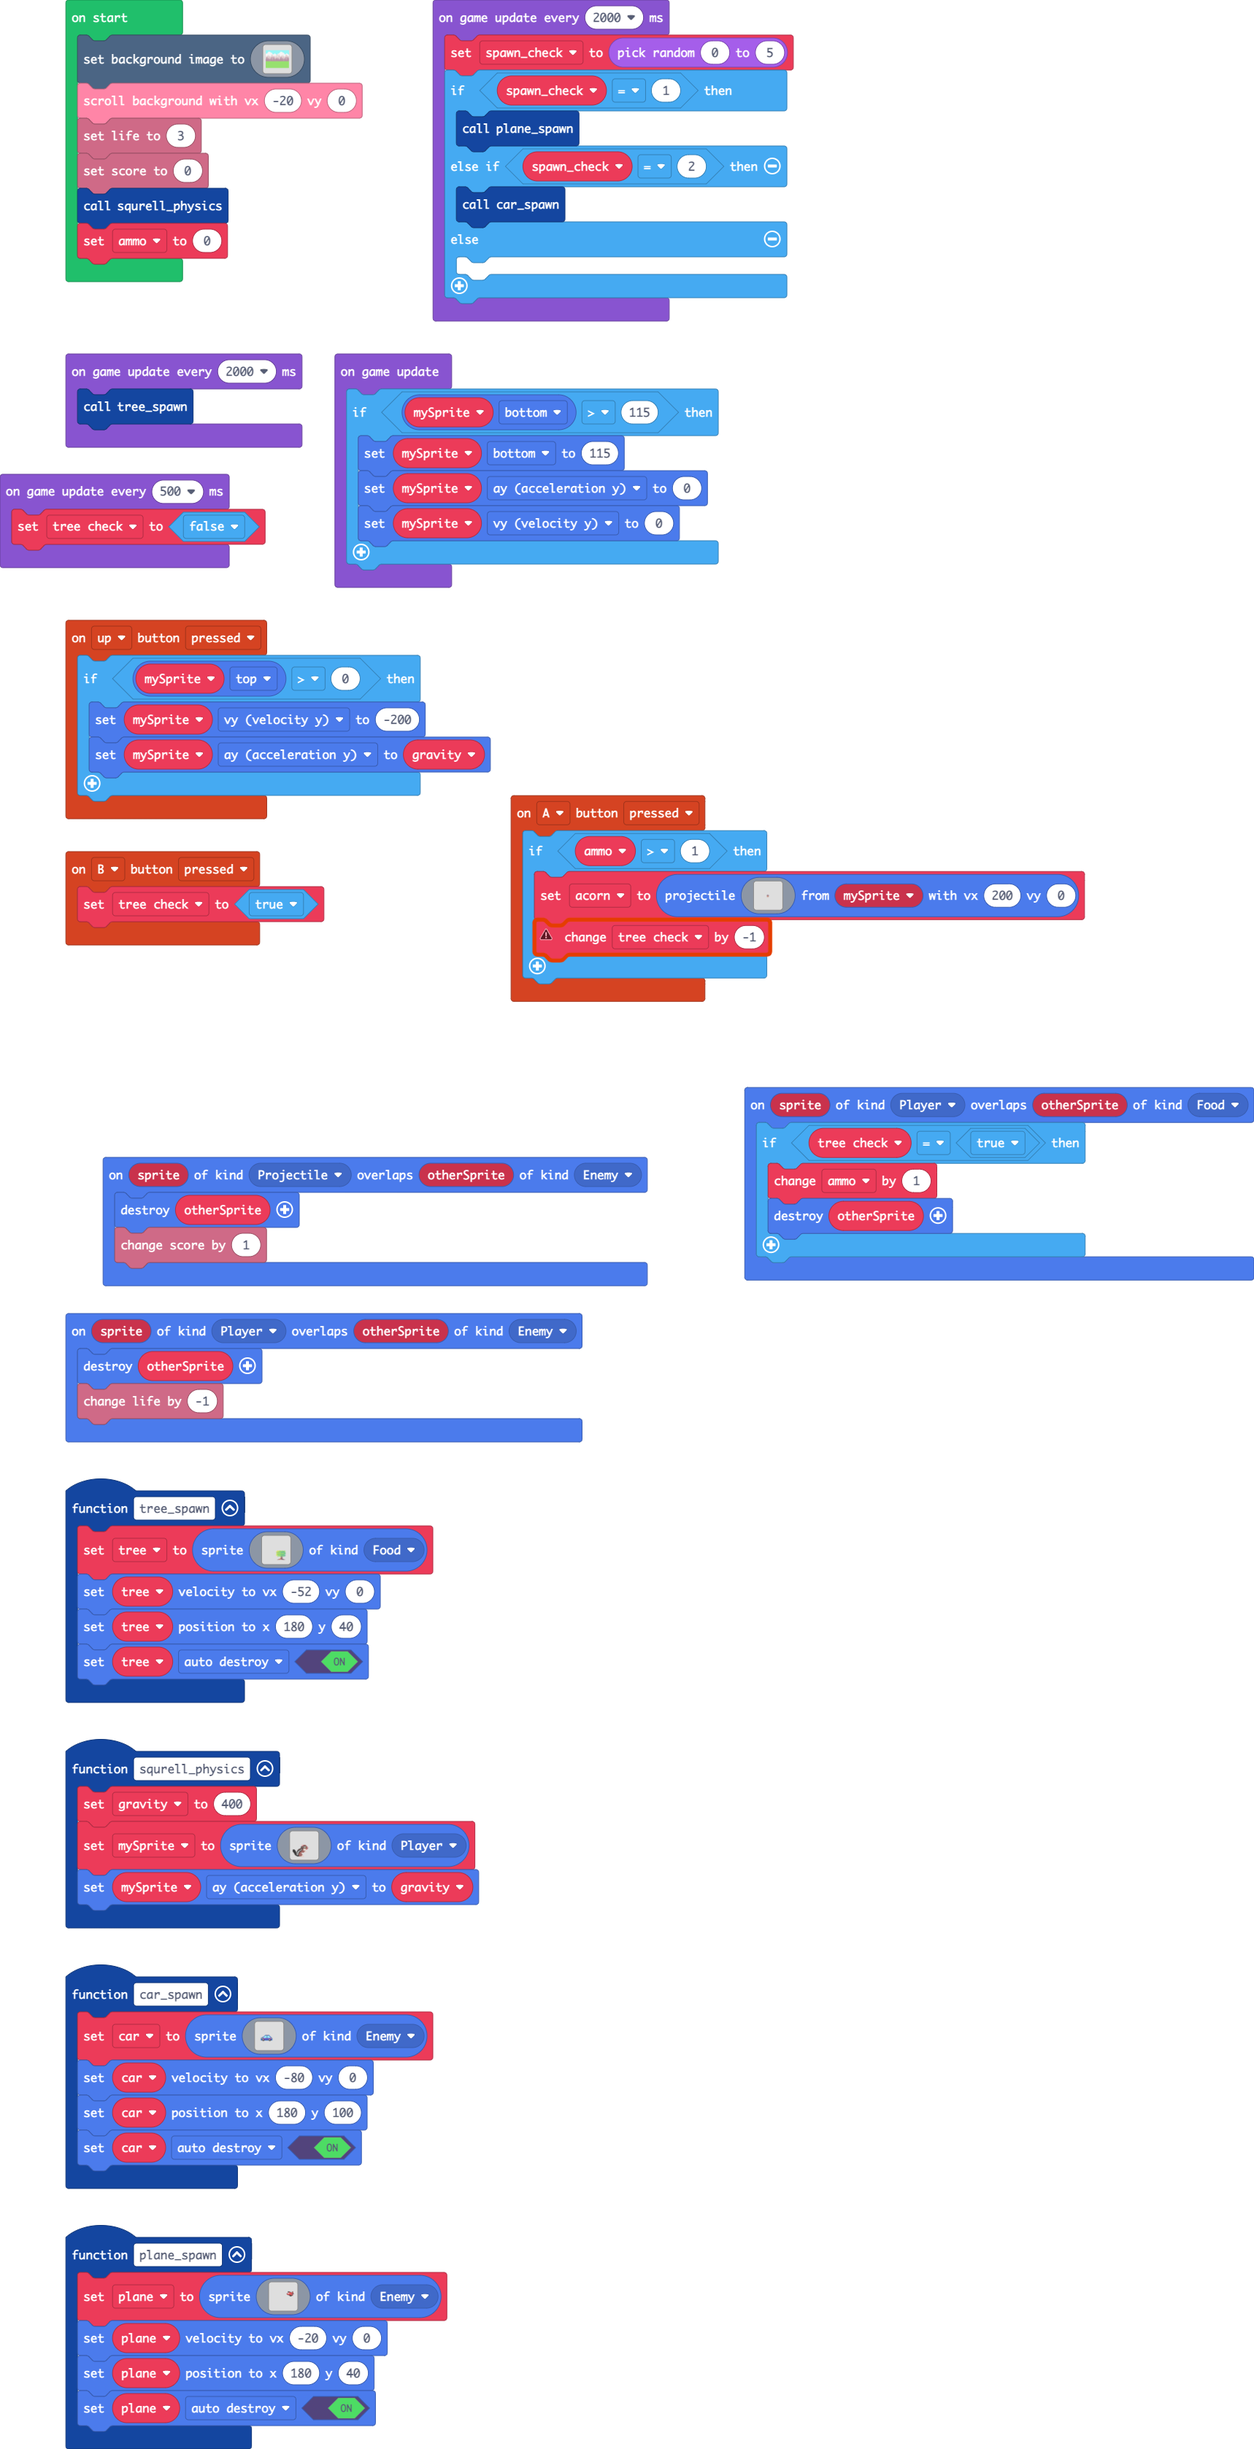
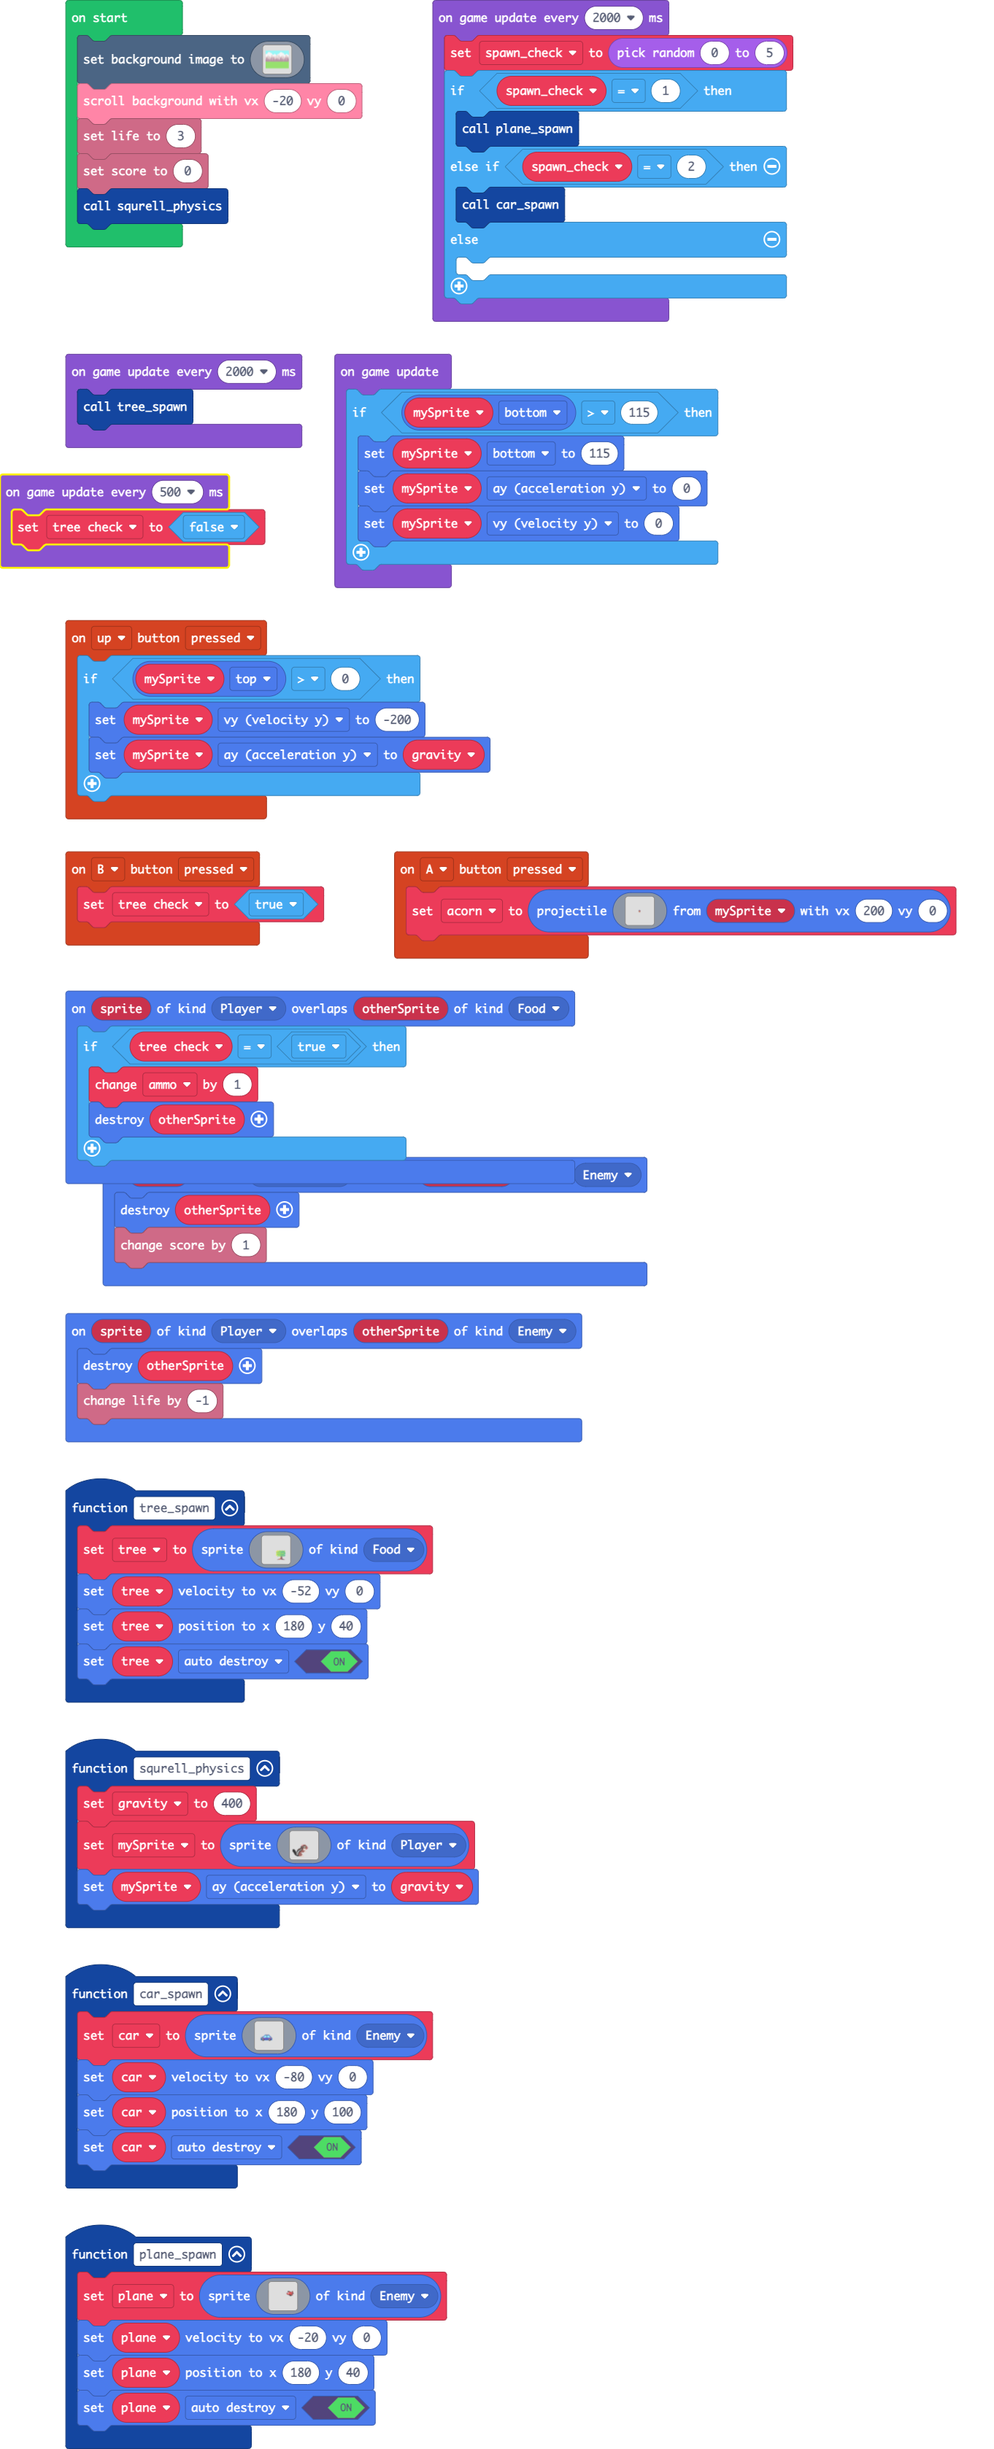
Restore '27.10.2021 13.16.42 Update main.blocks'

Changed region(s): [[0.0, 0.0, 1.0, 1.0]]

diff --git a/main.ts b/main.ts
@@ -100,100 +100,97 @@ function squrell_physics () {
     mySprite.ay = gravity
 }
 controller.A.onEvent(ControllerButtonEvent.Pressed, function () {
-    if (ammo > 1) {
-        acorn = sprites.createProjectileFromSprite(img`
-            ................................................................................
-            ................................................................................
-            ................................................................................
-            ................................................................................
-            ................................................................................
-            ................................................................................
-            ................................................................................
-            ................................................................................
-            ................................................................................
-            ................................................................................
-            ................................................................................
-            ................................................................................
-            ................................................................................
-            ................................................................................
-            ................................................................................
-            ................................................................................
-            ................................................................................
-            ................................................................................
-            ................................................................................
-            ................................................................................
-            ................................................................................
-            ................................................................................
-            ................................................................................
-            ................................................................................
-            ................................................................................
-            ................................................................................
-            ................................................................................
-            ................................................................................
-            ................................................................................
-            ................................................................................
-            ................................................................................
-            ................................................................................
-            ................................................................................
-            ................................................................................
-            ................................................................................
-            ................................................................................
-            ................................................................................
-            ................................................................................
-            ................................................................................
-            ................................................................................
-            ................................................................................
-            .......................................cc.......................................
-            ........................................c.......................................
-            ......................................ccccc.....................................
-            .....................................ceeeeec....................................
-            .....................................ccccccc....................................
-            ......................................e444e.....................................
-            ......................................e444e.....................................
-            ......................................e444e.....................................
-            .......................................eee......................................
-            ................................................................................
-            ................................................................................
-            ................................................................................
-            ................................................................................
-            ................................................................................
-            ................................................................................
-            ................................................................................
-            ................................................................................
-            ................................................................................
-            ................................................................................
-            ................................................................................
-            ................................................................................
-            ................................................................................
-            ................................................................................
-            ................................................................................
-            ................................................................................
-            ................................................................................
-            ................................................................................
-            ................................................................................
-            ................................................................................
-            ................................................................................
-            ................................................................................
-            ................................................................................
-            ................................................................................
-            ................................................................................
-            ................................................................................
-            ................................................................................
-            ................................................................................
-            ................................................................................
-            ................................................................................
-            ................................................................................
-            ................................................................................
-            ................................................................................
-            ................................................................................
-            ................................................................................
-            ................................................................................
-            ................................................................................
-            ................................................................................
-            ................................................................................
-            `, mySprite, 200, 0)
-        tree_check += -1
-    }
+    acorn = sprites.createProjectileFromSprite(img`
+        ................................................................................
+        ................................................................................
+        ................................................................................
+        ................................................................................
+        ................................................................................
+        ................................................................................
+        ................................................................................
+        ................................................................................
+        ................................................................................
+        ................................................................................
+        ................................................................................
+        ................................................................................
+        ................................................................................
+        ................................................................................
+        ................................................................................
+        ................................................................................
+        ................................................................................
+        ................................................................................
+        ................................................................................
+        ................................................................................
+        ................................................................................
+        ................................................................................
+        ................................................................................
+        ................................................................................
+        ................................................................................
+        ................................................................................
+        ................................................................................
+        ................................................................................
+        ................................................................................
+        ................................................................................
+        ................................................................................
+        ................................................................................
+        ................................................................................
+        ................................................................................
+        ................................................................................
+        ................................................................................
+        ................................................................................
+        ................................................................................
+        ................................................................................
+        ................................................................................
+        ................................................................................
+        .......................................cc.......................................
+        ........................................c.......................................
+        ......................................ccccc.....................................
+        .....................................ceeeeec....................................
+        .....................................ccccccc....................................
+        ......................................e444e.....................................
+        ......................................e444e.....................................
+        ......................................e444e.....................................
+        .......................................eee......................................
+        ................................................................................
+        ................................................................................
+        ................................................................................
+        ................................................................................
+        ................................................................................
+        ................................................................................
+        ................................................................................
+        ................................................................................
+        ................................................................................
+        ................................................................................
+        ................................................................................
+        ................................................................................
+        ................................................................................
+        ................................................................................
+        ................................................................................
+        ................................................................................
+        ................................................................................
+        ................................................................................
+        ................................................................................
+        ................................................................................
+        ................................................................................
+        ................................................................................
+        ................................................................................
+        ................................................................................
+        ................................................................................
+        ................................................................................
+        ................................................................................
+        ................................................................................
+        ................................................................................
+        ................................................................................
+        ................................................................................
+        ................................................................................
+        ................................................................................
+        ................................................................................
+        ................................................................................
+        ................................................................................
+        ................................................................................
+        ................................................................................
+        ................................................................................
+        `, mySprite, 200, 0)
 })
 function car_spawn () {
     car = sprites.create(assets.image`Car`, SpriteKind.Enemy)
@@ -304,13 +301,13 @@ function plane_spawn () {
 }
 let spawn_check = 0
 let plane: Sprite = null
+let ammo = 0
 let car: Sprite = null
 let acorn: Sprite = null
 let tree: Sprite = null
 let tree_check = false
 let gravity = 0
 let mySprite: Sprite = null
-let ammo = 0
 scene.setBackgroundImage(img`
     9999999999999999999999999999999999999999999999999999999999999999999999999999999999999999999999999999999999999999999999999999999999999999999999999999999999999999
     9999999999999999999999999999999999999999999999999999999999999999999999999999999999999999999999999999999999999999999999999999999999999999999999999999999999999999
@@ -437,7 +434,6 @@ scroller.scrollBackgroundWithSpeed(-20, 0)
 info.setLife(3)
 info.setScore(0)
 squrell_physics()
-ammo = 0
 game.onUpdate(function () {
     if (mySprite.bottom > 115) {
         mySprite.bottom = 115
